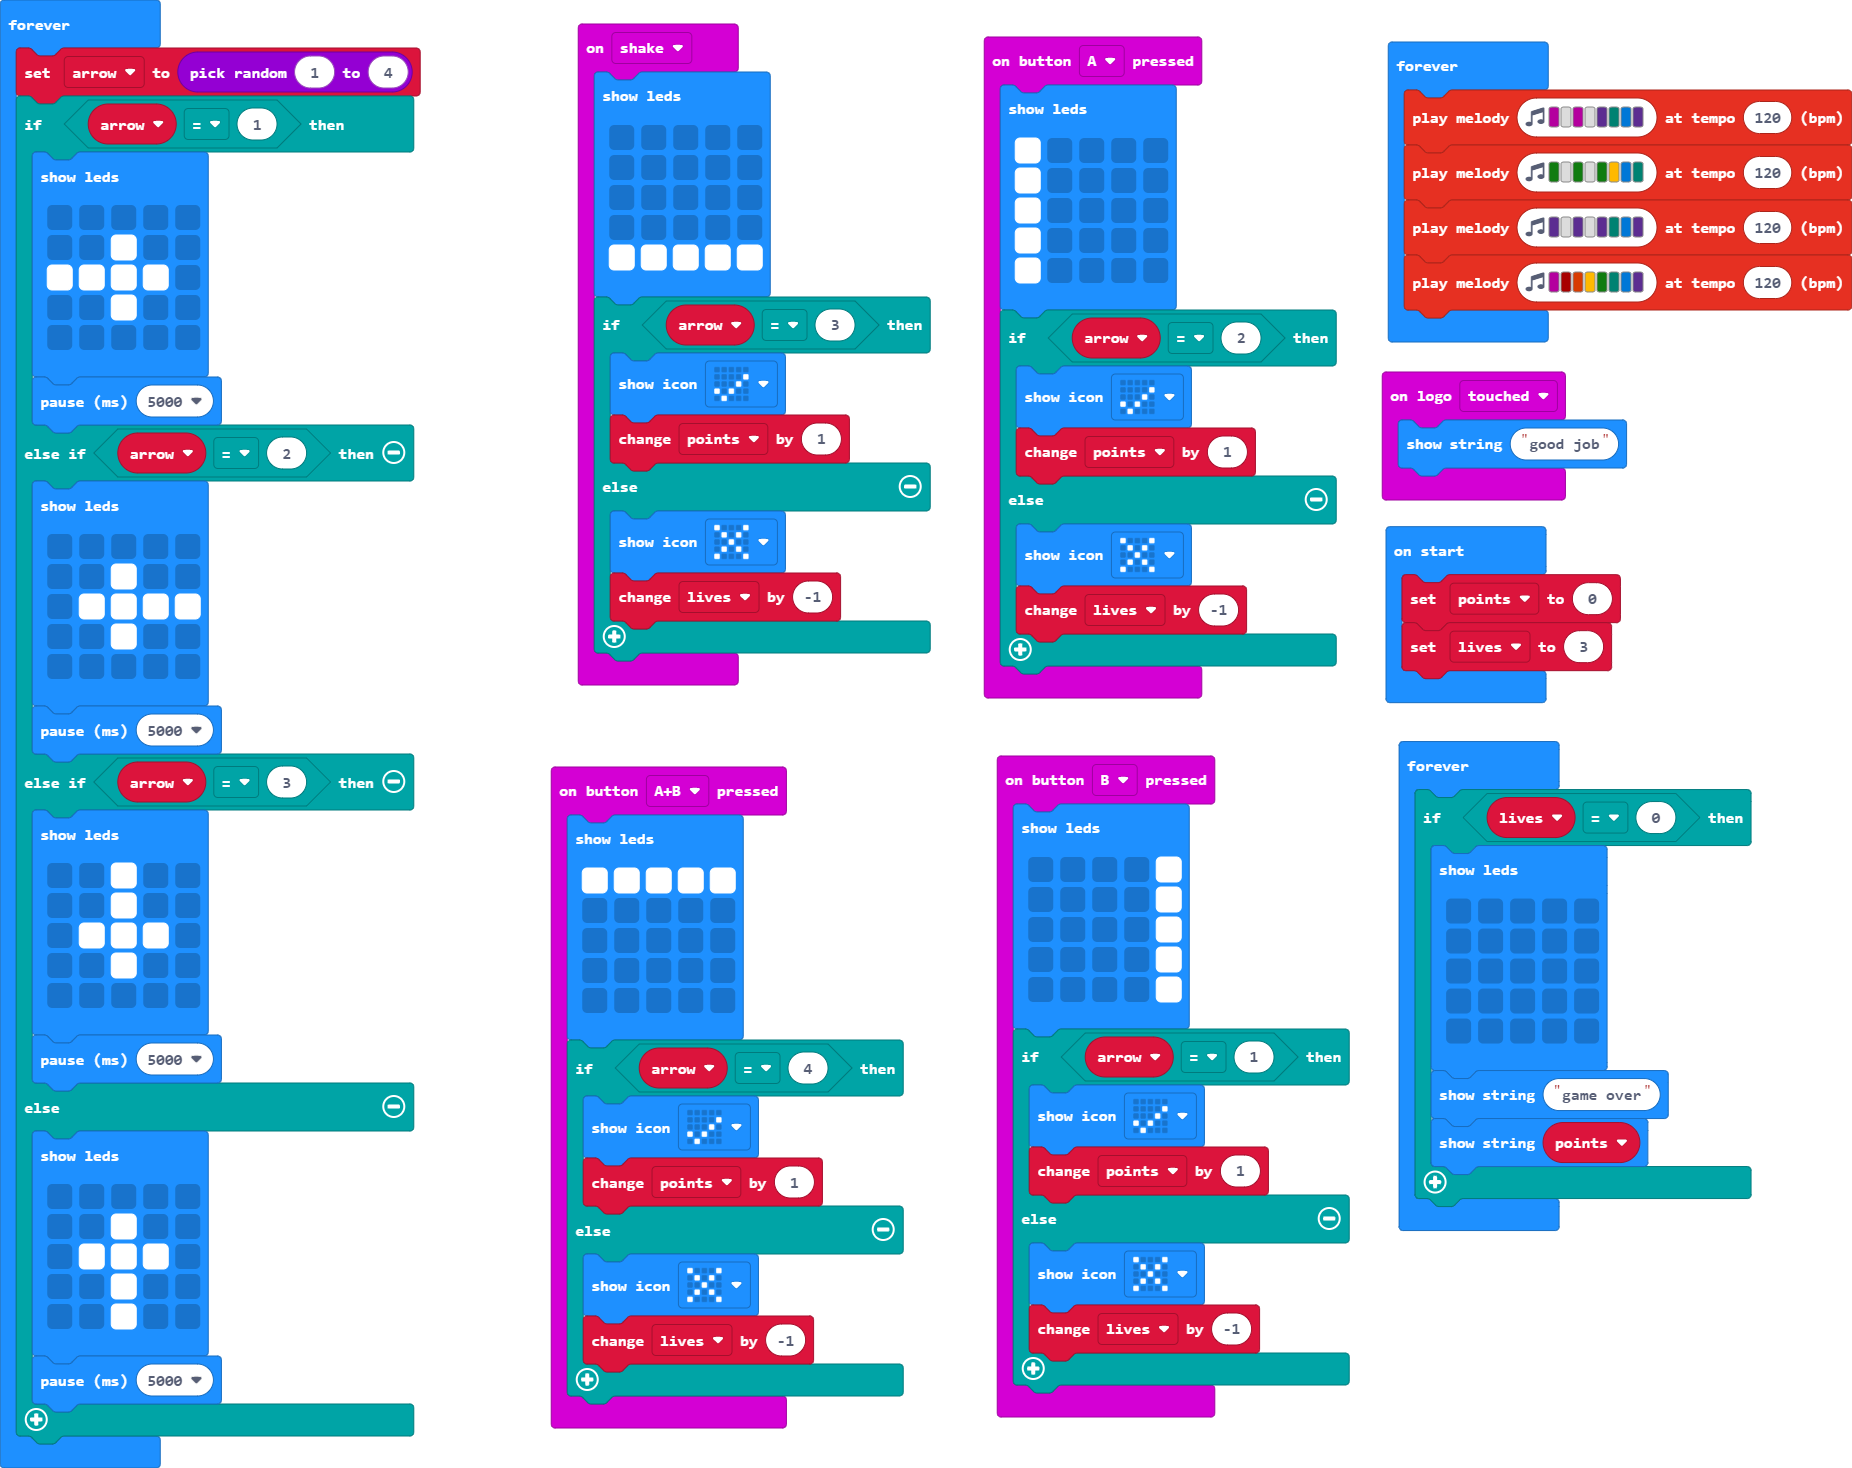
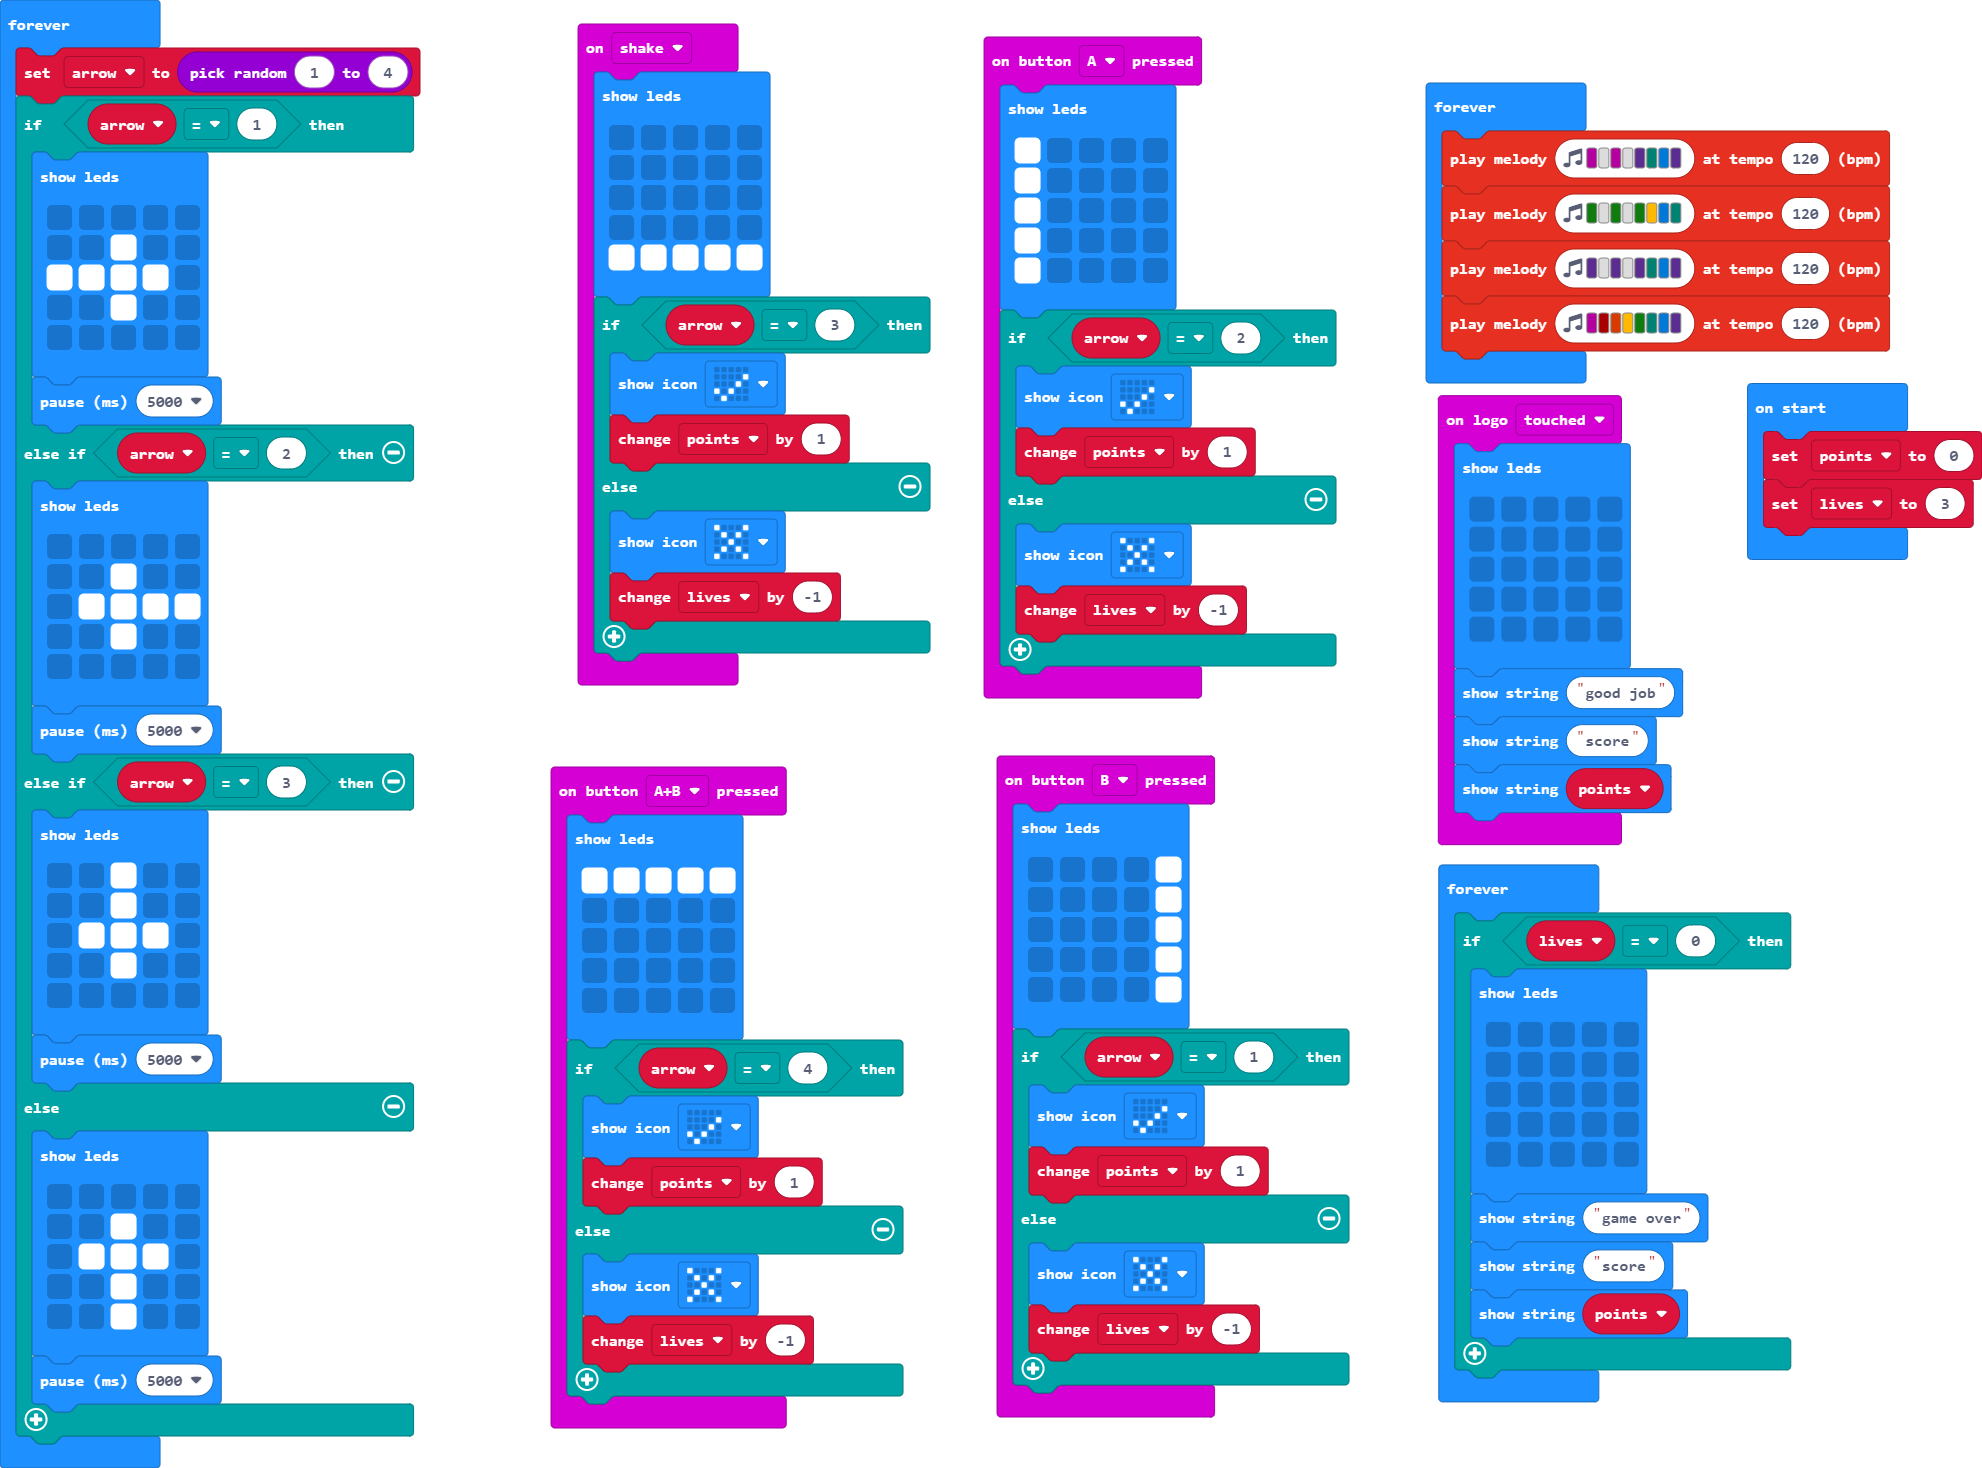
Update main.blocks, main.ts

diff --git a/main.ts b/main.ts
@@ -63,10 +63,20 @@ input.onGesture(Gesture.Shake, function () {
     }
 })
 input.onLogoEvent(TouchButtonEvent.Touched, function () {
+    basic.showLeds(`
+        . . . . .
+        . . . . .
+        . . . . .
+        . . . . .
+        . . . . .
+        `)
     basic.showString("good job")
+    basic.showString("score")
+    basic.showString("" + (points))
 })
 let arrow = 0
 let points = 0
+points = 0
 let lives = 3
 basic.forever(function () {
     arrow = randint(1, 4)
@@ -124,6 +134,7 @@ basic.forever(function () {
             . . . . .
             `)
         basic.showString("game over")
+        basic.showString("score")
         basic.showString("" + (points))
     }
 })
